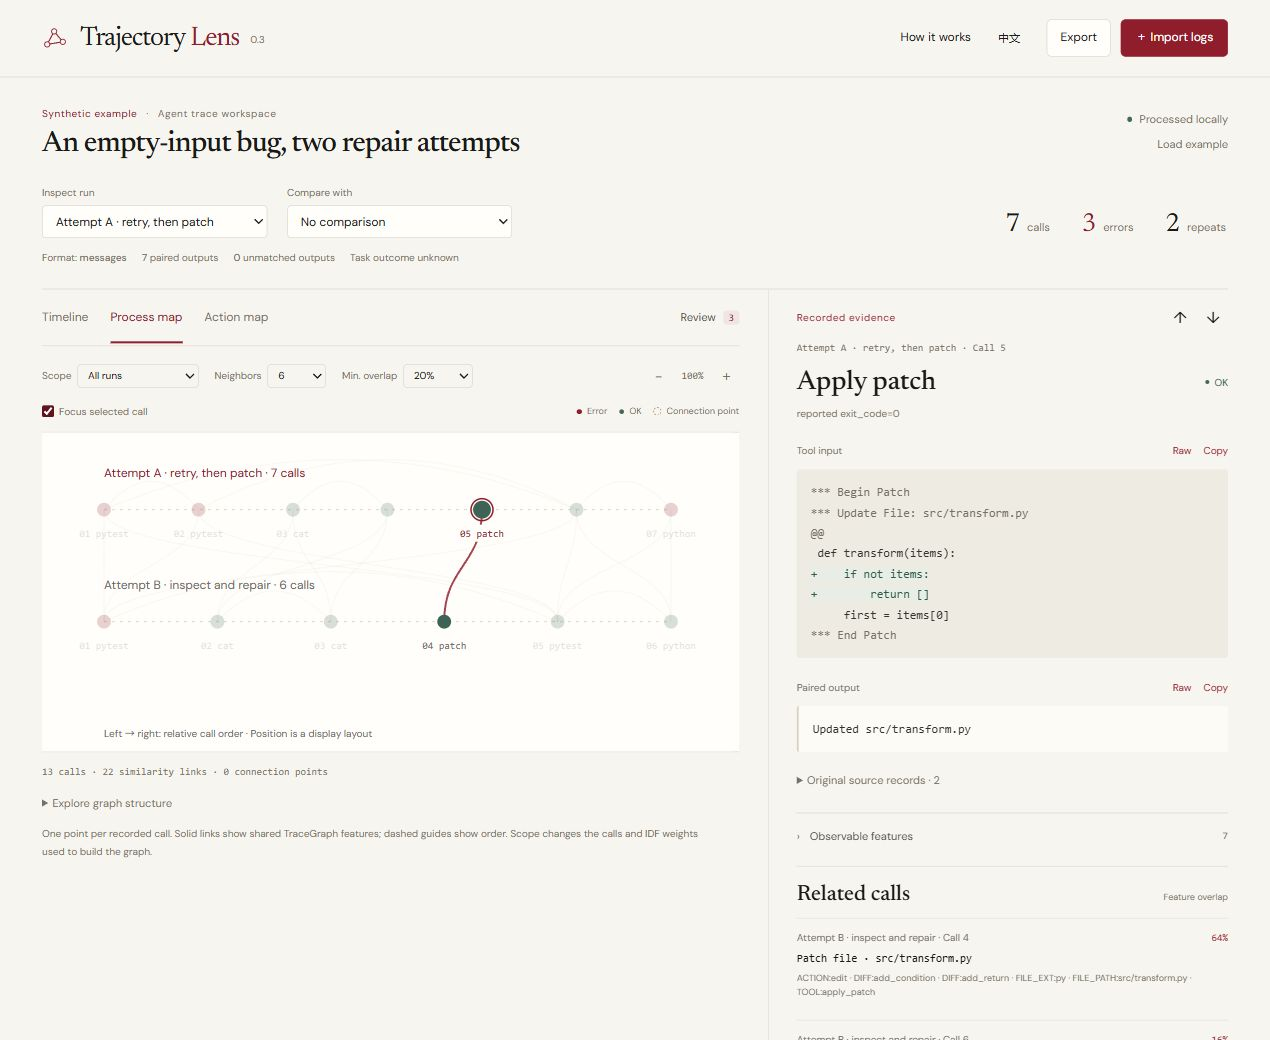
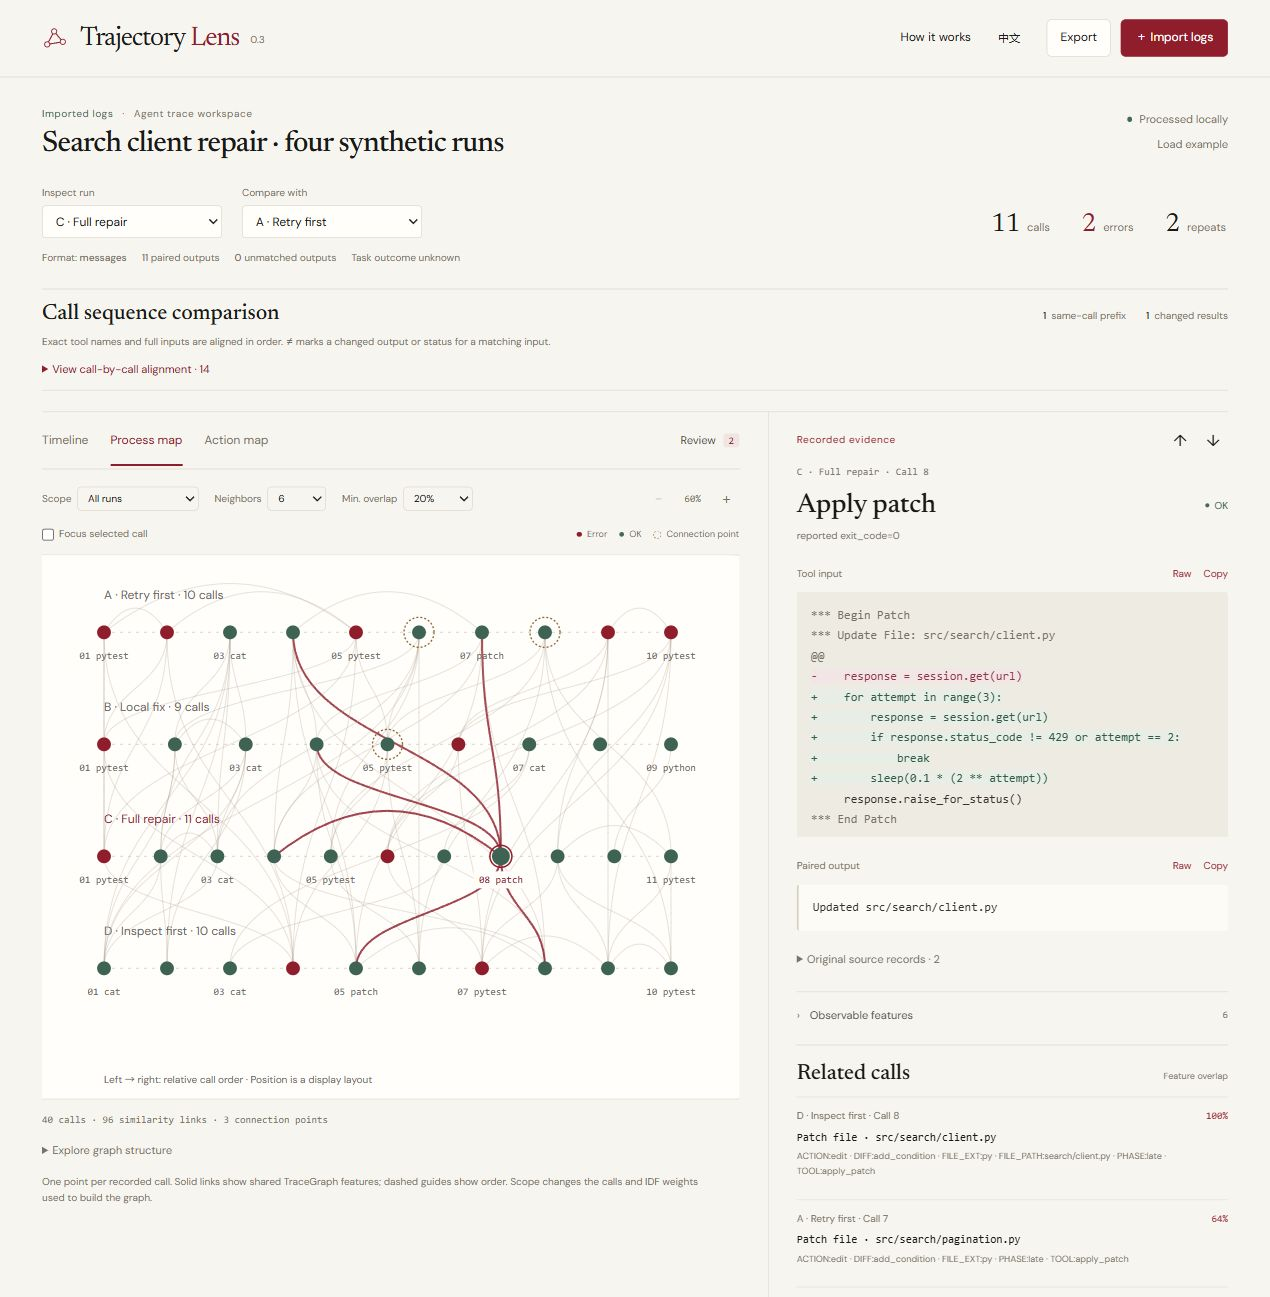
Show richer Trajectory Lens four-run process map

diff --git a/projects.html b/projects.html
@@ -200,7 +200,7 @@
             <h2>Technical Work</h2>
 
             <div id="trajectory-lens" class="project-card">
-                <img src="assets/trajectory-lens-workspace.jpg" alt="Trajectory Lens showing recorded agent calls, a TraceGraph process map, and original input and output evidence" class="project-img" loading="lazy" decoding="async" width="1270" height="1040">
+                <img src="assets/trajectory-lens-workspace.jpg?v=20260930-2" alt="Trajectory Lens comparing four synthetic search-client repair strategies, with 40 recorded calls, TraceGraph similarity links, and the original retry patch" class="project-img" loading="lazy" decoding="async" width="1270" height="1297">
                 <h3>Trajectory Lens: Agent Trace Workbench</h3>
                 <p>A local workspace for inspecting raw agent logs. Turns tool calls and outputs into searchable timelines, compares runs call by call, and uses TraceGraph signatures to connect related steps. Includes original-record evidence, resumable workspaces, a single-file offline edition, and English and Chinese interfaces.</p>
                 <div class="project-tags">
